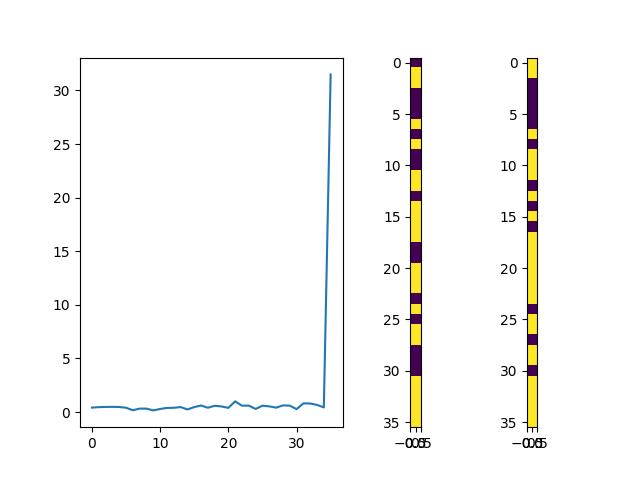
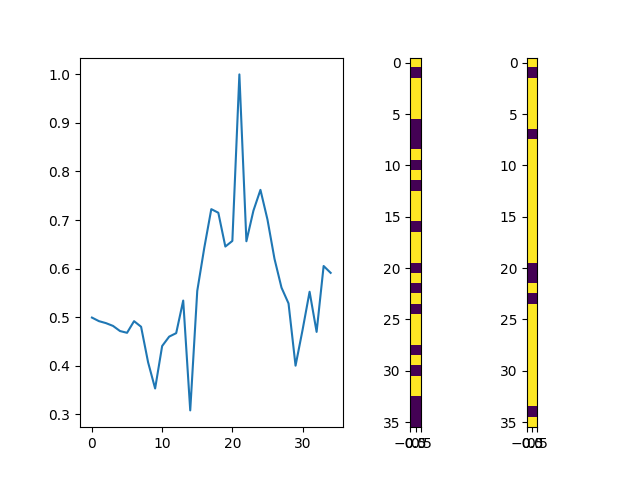
modified hybrid loss function

diff --git a/1d/peaks_to_slot/peaks_to_slots_model.py b/1d/peaks_to_slot/peaks_to_slots_model.py
@@ -9,13 +9,13 @@ class LWAPredictionModel(tf.keras.Model):
         super(LWAPredictionModel, self).__init__()
 
         self.adam_optimizer = tf.keras.optimizers.Adam(learning_rate=lr)
-        self.batch_size = 100
-        self.epochs = 50
+        self.batch_size = 32
+        self.epochs = 10
 
         self.dense_layers = tf.keras.Sequential()
         self.dense_layers.add(Flatten())
-        self.dense_layers.add(Dense(1000, activation = 'relu'))
-        self.dense_layers.add(Dense(800, activation = 'relu'))
+        # self.dense_layers.add(Dense(1000, activation = 'relu'))
+        # self.dense_layers.add(Dense(800, activation = 'relu'))
         self.dense_layers.add(Dense(600, activation = 'relu'))
         self.dense_layers.add(Dense(400, activation = 'relu'))
         self.dense_layers.add(Dense(200, activation = 'relu'))
@@ -27,9 +27,14 @@ class LWAPredictionModel(tf.keras.Model):
 
     def loss_function(self, prediction, true):
 
-        bce = tf.keras.losses.BinaryCrossentropy()
 
-        return bce(true, prediction)
+        bce = tf.keras.losses.BinaryCrossentropy()
+        # bfce = tf.keras.losses.BinaryFocalCrossentropy()
+        total_slots = tf.math.abs(tf.math.subtract(tf.cast(tf.reduce_sum(tf.round(true), axis=1),tf.float32),tf.cast(tf.reduce_sum(tf.round(prediction), axis=1),tf.float32)))
+        normalized = total_slots / tf.cast(tf.reduce_sum(tf.round(true),axis=1),tf.float32)
+        # print(normalized)
+        return bce(true, prediction) + (3*tf.reduce_mean(normalized))
+        # return
 
     def accuracy(self, prediction, true):
         ba = tf.keras.metrics.BinaryAccuracy()

diff --git a/1d/peaks_to_slot/preprocess.py b/1d/peaks_to_slot/preprocess.py
@@ -28,12 +28,14 @@ def import_data(timestamp_list):
             peaks = sorted_x[:,floquet_back + floquet_forward]
             max = peaks.max(axis=1)[:,None]
             normalized = peaks / max
+            # peaks_list.append(normalized)
             peaks_list.append(normalized)
-            max_list.append(max)
+            # max_list.append(np.concatenate([max,max,max,max,max,max],axis=1))
 
 
-    return np.concatenate(slots_list), np.concatenate([np.concatenate(peaks_list) / 1.0, np.concatenate(max_list)],axis=1)
-
+    # return np.concatenate(slots_list), np.concatenate([np.concatenate(peaks_list), np.concatenate(max_list)],axis=1)
+    return np.concatenate(slots_list), np.concatenate(peaks_list)
+#
 
 
 def get_next_batch(input_array, label_array, start_index, batch_size):

diff --git a/1d/peaks_to_slot/build_model.py b/1d/peaks_to_slot/build_model.py
@@ -33,6 +33,7 @@ def train(model, slots, peaks):
         with tf.GradientTape() as tape:
             efarx = model.call(peaks_batch)
             efarx_loss = model.loss_function(efarx, slot_batch) #slots serves as the mask here
+            # print(efarx_loss)
 
         gradients = tape.gradient(efarx_loss, model.trainable_variables)
         model.adam_optimizer.apply_gradients(zip(gradients, model.trainable_variables))
